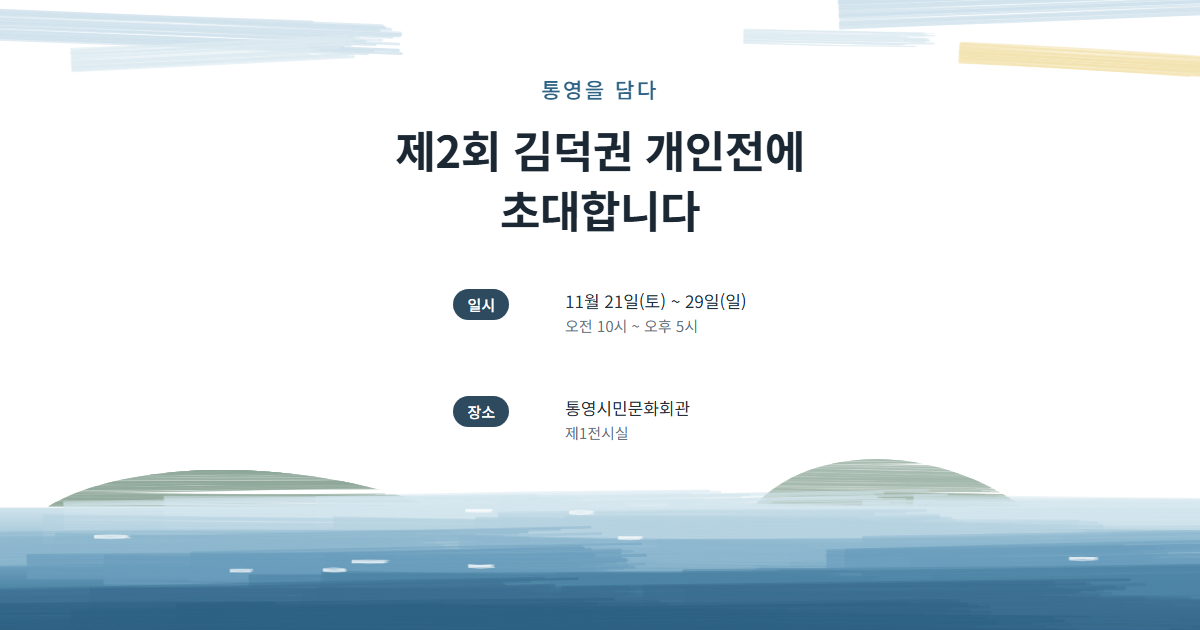
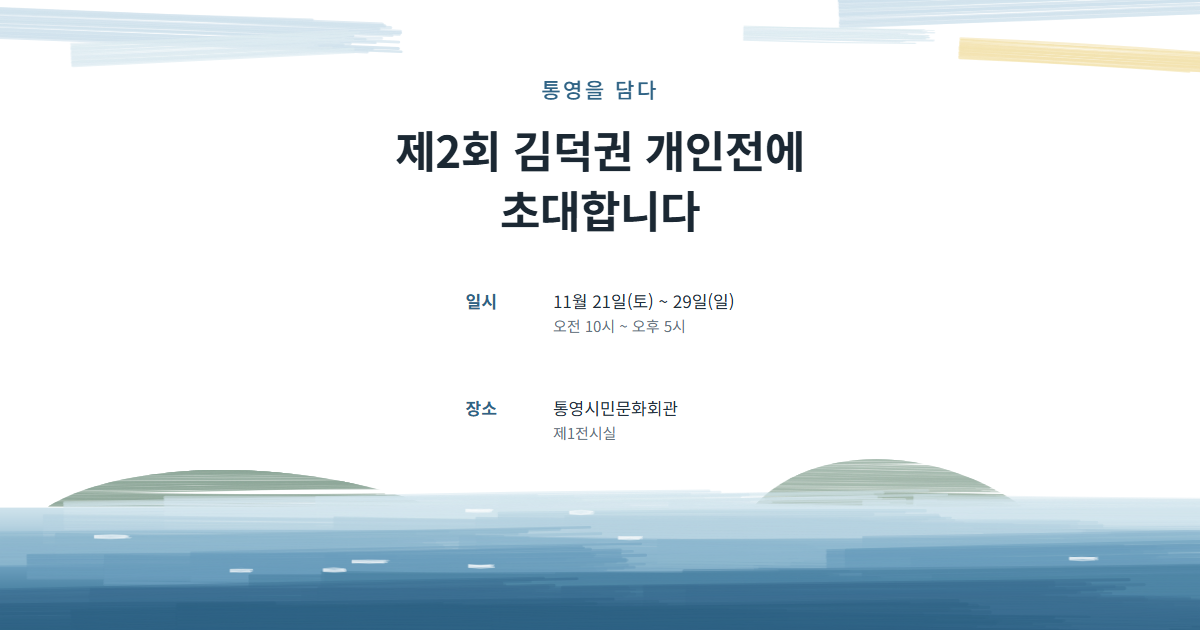
카카오톡 화면 높이에 맞춘 스크롤 안내, 항목 이름 글자색, 둥근 상자, 장소 한 줄, 번호 복사 제거

diff --git a/index.html b/index.html
@@ -54,9 +54,11 @@
   /* ── 첫 화면 ── */
   .hero {
     position: relative;
-    min-height: calc(100svh - var(--bar-h));
+    /* 카카오톡 등 앱 안 브라우저의 위아래 막대를 뺀, 지금 보이는 높이에 맞춤 */
+    min-height: calc(100vh - var(--bar-h));
+    min-height: calc(100dvh - var(--bar-h) - env(safe-area-inset-bottom, 0px));
     box-sizing: border-box;
-    padding: 110px 24px 190px;
+    padding: 84px 24px 170px;
     display: flex;
     flex-direction: column;
     justify-content: center;
@@ -65,11 +67,16 @@
     overflow: hidden;
   }
   .paint { position: absolute; left: 0; width: 100%; pointer-events: none; }
-  .paint.top { top: 0; height: 120px; }
-  .paint.bottom { bottom: 0; height: 180px; }
+  .paint.top { top: 0; height: 110px; }
+  .paint.bottom { bottom: 0; height: 160px; }
+  /* 스크롤 안내: 화면 맨 아래(하단 메뉴 바로 위)에 붙여 두고, 내리기 시작하면 사라짐 */
   .scroll-cue {
-    position: absolute;
-    left: 0; right: 0; bottom: 14px;
+    position: fixed;
+    z-index: 5;
+    left: 0; right: 0;
+    bottom: calc(var(--bar-h) + env(safe-area-inset-bottom, 0px) + 10px);
+    margin: 0;
+    transition: opacity .3s;
     color: #FFFFFF;
     font-size: 15px;
     font-weight: 500;
@@ -80,6 +87,7 @@
     text-shadow: 0 1px 4px rgba(20,40,60,.4);
   }
   .scroll-cue svg { width: 20px; height: 20px; }
+  .scroll-cue.gone { opacity: 0; pointer-events: none; }
   @media (prefers-reduced-motion: no-preference) {
     .scroll-cue svg { animation: nudge 1.8s ease-in-out infinite; }
     @keyframes nudge { 0%,100% { transform: translateY(0); } 50% { transform: translateY(5px); } }
@@ -107,15 +115,12 @@
   }
   .hero .facts { margin-top: 26px; }
   .fact { display: contents; }
-  .fact .pill { justify-self: stretch; text-align: center; align-self: start; margin-top: 2px; }
+  .fact .pill { align-self: start; }
   .pill {
-    display: inline-block;
-    background: var(--navy);
-    color: #FFFFFF;
-    font-size: 15px;
-    font-weight: 500;
-    padding: 2px 14px;
-    border-radius: 999px;
+    color: var(--sea);
+    font-size: 17px;
+    font-weight: 700;
+    line-height: 1.6;
   }
   .fact p { font-size: 17px; line-height: 1.6; font-variant-numeric: tabular-nums; }
   .fact p small { display: block; font-size: 15px; color: var(--muted); }
@@ -132,6 +137,8 @@
   section {
     background: #FFFFFF;
     border: 1px solid #D3E0E7;
+    border-radius: 14px;
+    overflow: hidden;
     padding: 0 20px 36px;
     display: flex;
     flex-direction: column;
@@ -147,7 +154,7 @@
     letter-spacing: .08em;
     padding: 8px 26px;
   }
-  section h2 { margin-top: -1px; }
+  section h2 { margin-top: -1px; border-radius: 0 0 10px 10px; }
   .slot {
     align-self: stretch;
     border: 1px dashed #C9D3D8;
@@ -239,8 +246,7 @@
     cursor: pointer;
   }
   .place { display: flex; flex-direction: column; gap: 2px; }
-  .place-name { font-size: 21px; font-weight: 700; line-height: 1.4; }
-  .place-room { color: var(--muted); font-size: 17px; }
+  .place-name { font-size: 20px; font-weight: 700; line-height: 1.4; }
   .address { display: flex; flex-wrap: wrap; justify-content: center; align-items: center; column-gap: 10px; row-gap: 6px; font-size: 17px; }
   .address .line-btn { padding: 4px 12px; font-size: 13px; white-space: nowrap; }
   .line-btn {
@@ -359,17 +365,13 @@
     <p class="phone-num" id="phone">010-4087-9490</p>
     <div class="popup-actions">
       <a class="solid-btn" href="tel:01040879490">전화 걸기</a>
-      <button class="line-btn wide" id="copy-phone" type="button">번호 복사</button>
       <button class="close" type="button">닫기</button>
     </div>
   </div>
 
   <div class="popup" id="pop-map" role="dialog" aria-modal="true" aria-labelledby="map-h" hidden>
     <h3 id="map-h">오시는 길</h3>
-    <div class="place">
-      <p class="place-name">통영시민문화회관</p>
-      <p class="place-room">제1전시실</p>
-    </div>
+    <p class="place-name">통영시민문화회관 제1전시실</p>
     <div class="address">
       <p id="addr">경남 통영시 남망공원길 29</p>
       <button class="line-btn" id="copy-addr" type="button">주소 복사</button>
@@ -511,6 +513,11 @@
     scrim.addEventListener('click', function (e) { if (e.target === scrim) close(); });
     document.addEventListener('keydown', function (e) { if (e.key === 'Escape') close(); });
 
+    var cue = document.querySelector('.scroll-cue');
+    function cueCheck() { cue.classList.toggle('gone', window.scrollY > 30); }
+    window.addEventListener('scroll', cueCheck, { passive: true });
+    cueCheck();
+
     document.getElementById('to-top').addEventListener('click', function () {
       var smooth = !window.matchMedia('(prefers-reduced-motion: reduce)').matches;
       window.scrollTo({ top: 0, behavior: smooth ? 'smooth' : 'auto' });
@@ -526,13 +533,6 @@
       copy(document.getElementById('addr').textContent,
         function () { show('복사되었습니다'); },
         function () { show('길게 눌러 복사'); });
-    });
-    var phoneBtn = document.getElementById('copy-phone');
-    phoneBtn.addEventListener('click', function () {
-      function show(msg) { phoneBtn.textContent = msg; setTimeout(function () { phoneBtn.textContent = '번호 복사'; }, 2000); }
-      copy(document.getElementById('phone').textContent,
-        function () { show('복사되었습니다'); },
-        function () { show('번호를 길게 눌러 복사해 주세요'); });
     });
   })();
 </script>
